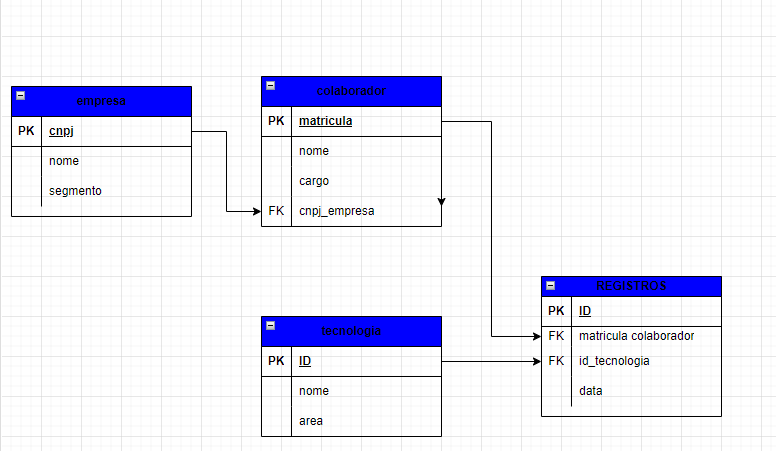
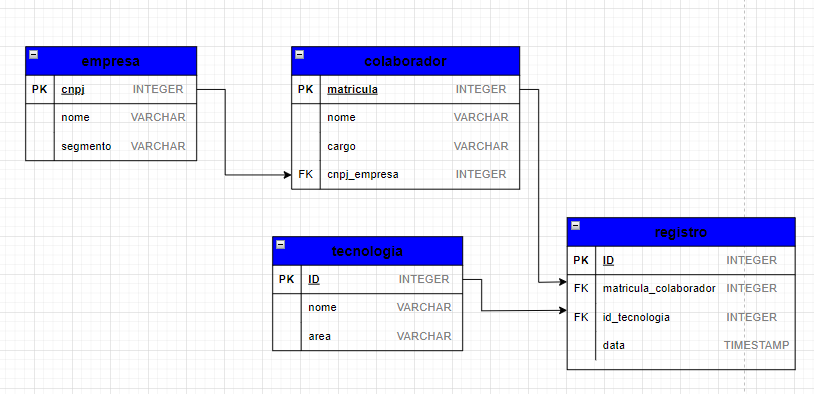
atualização do readme

Changed region(s): [[0.2784, 0.0914, 0.9897, 0.9746], [0.0, 0.0914, 0.2784, 0.4873], [0.8969, 0.7919, 0.9897, 0.8223]]

diff --git a/README.md b/README.md
@@ -1,5 +1,13 @@
 # modelo_de_banco_de_dados
 
-nesse projeto foi criado um modelo de banco de dados relacional contando com chaves primarias e estrangeiras
-chegando a esse resultado 
-![Alt ou título da imagem](imagens_do_banco/modelo_logico.png)
+Foi solicitado a criação de um banco de dados com o objetivo de analisar as tecnologias utilizadas pelas empresas e seus colaboradores. Para isso, optou-se por criar um modelo relacional com a intenção de obter insights a partir dos dados coletados.
+
+Antes de criar um banco de dados, é fundamental desenvolver um modelo de banco de dados. O primeiro passo foi a criação do modelo conceitual, levando em consideração os relacionamentos e a cardinalidade das entidades.
+
+## modelo conceitual
+
+![imagem do mmodelo conceitual ](imagens_do_banco/modelo_conceitual.png)
+
+após isso o modelo passou por melhorias se tornando um diagrama no modelo logico ja contando com atributos chaves primarias estrangeiras e relacionamentos que estruturam nosso banco de dados
+
+![imagem do ](imagens_do_banco/modelo_logico.png)
